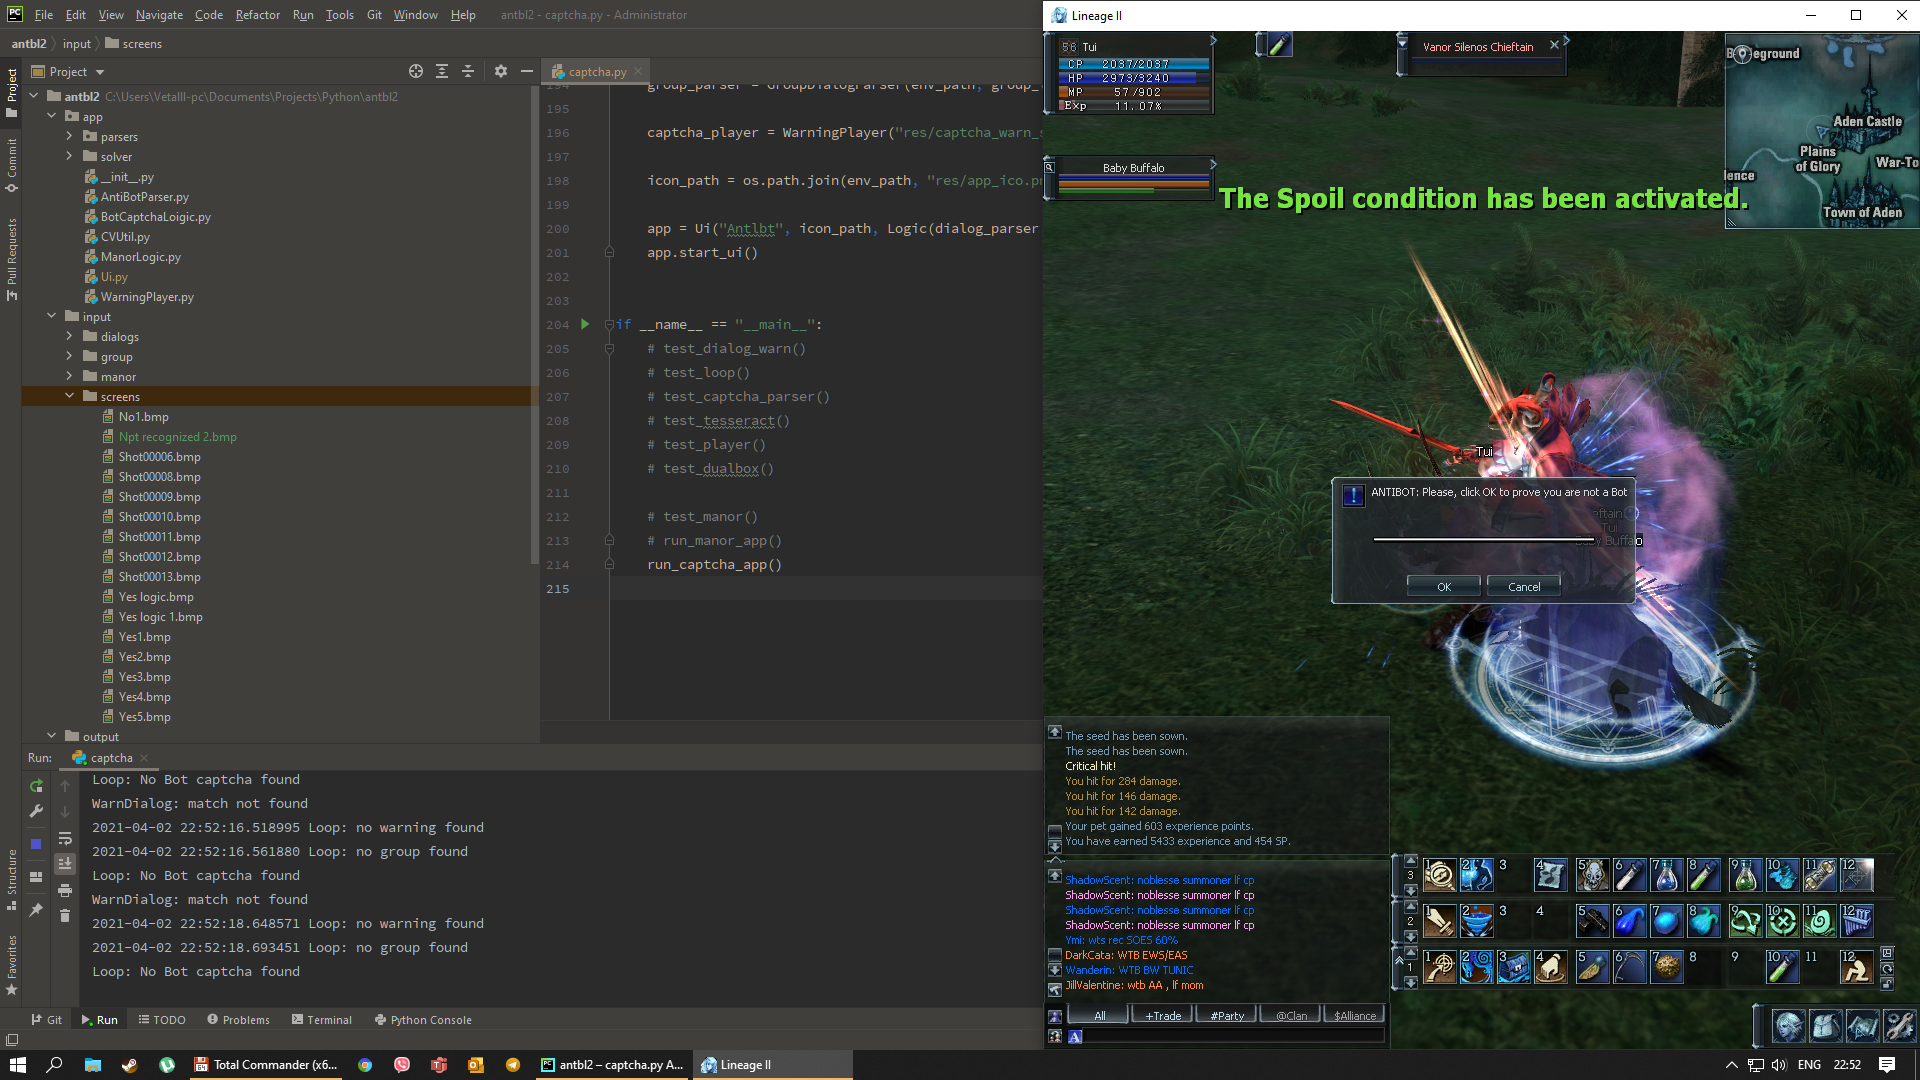
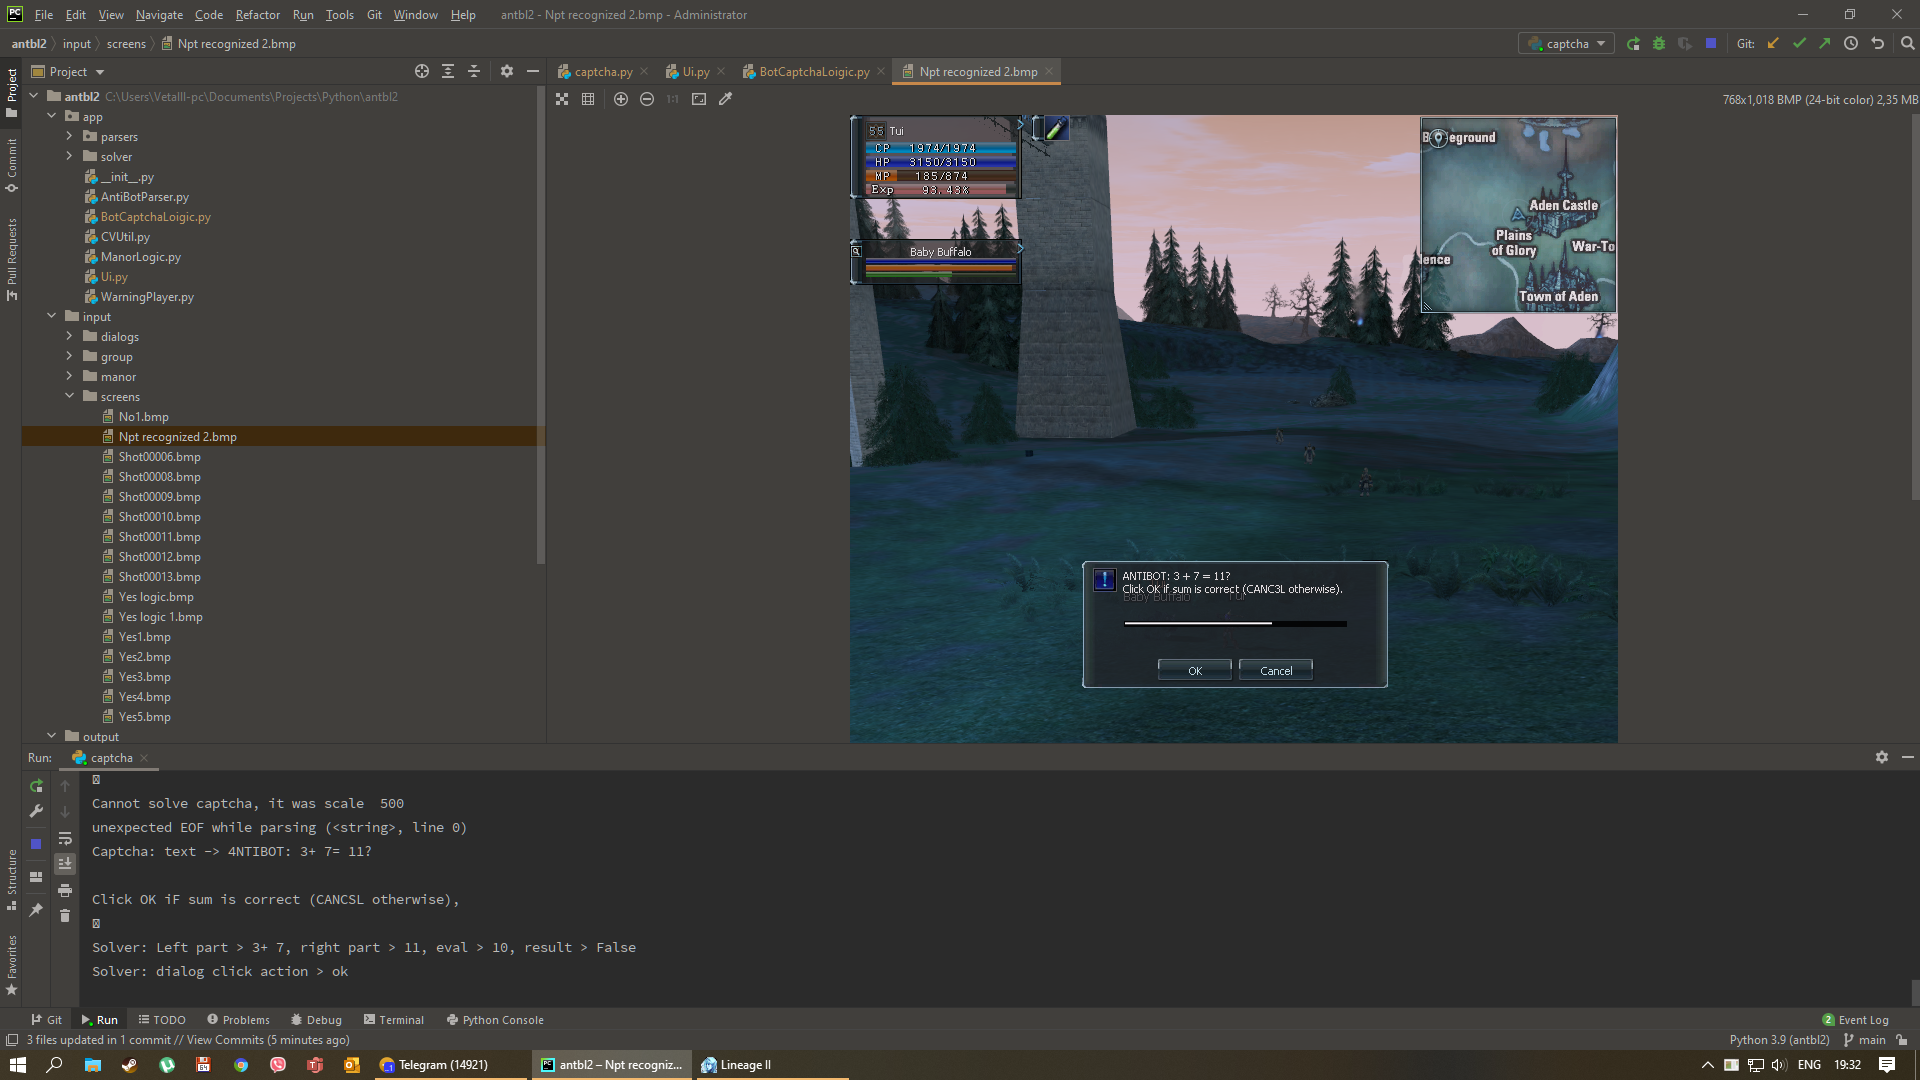
Fixed captcha for iteration of number 7

diff --git a/app/BotCaptchaLoigic.py b/app/BotCaptchaLoigic.py
@@ -32,9 +32,9 @@ class Logic:
 
         self.player.play_captcha()
 
-        for scale in range(500, 800, step=100):
+        for scale in range(500, 800, 100):
             try:
-                captcha_text = self.captcha_parser.parse_image(dialog)
+                captcha_text = self.captcha_parser.parse_image(dialog, scale)
                 if self.captcha_solver.is_ariphmetic(captcha_text):
                     result = self.captcha_solver.solve_math(captcha_text)
                 else:

diff --git a/app/Ui.py b/app/Ui.py
@@ -44,8 +44,9 @@ class Ui:
                     self.logic.apply_click(captcha_button)
                 else:
                     print("Loop: No Bot captcha found")
-            except:
+            except BaseException as e:
                 print("Error during making screenshot")
+                print(e)
             time.sleep(2)
 
         print("Loop stopped")

diff --git a/captcha.py b/captcha.py
@@ -208,7 +208,7 @@ def run_captcha_app():
 
 if __name__ == "__main__":
     # test_dialog_warn()
-    test_loop()
+    # test_loop()
     # test_captcha_parser()
     # test_tesseract()
     # test_player()
@@ -216,4 +216,4 @@ if __name__ == "__main__":
 
     # test_manor()
     # run_manor_app()
-    # run_captcha_app()
+    run_captcha_app()
